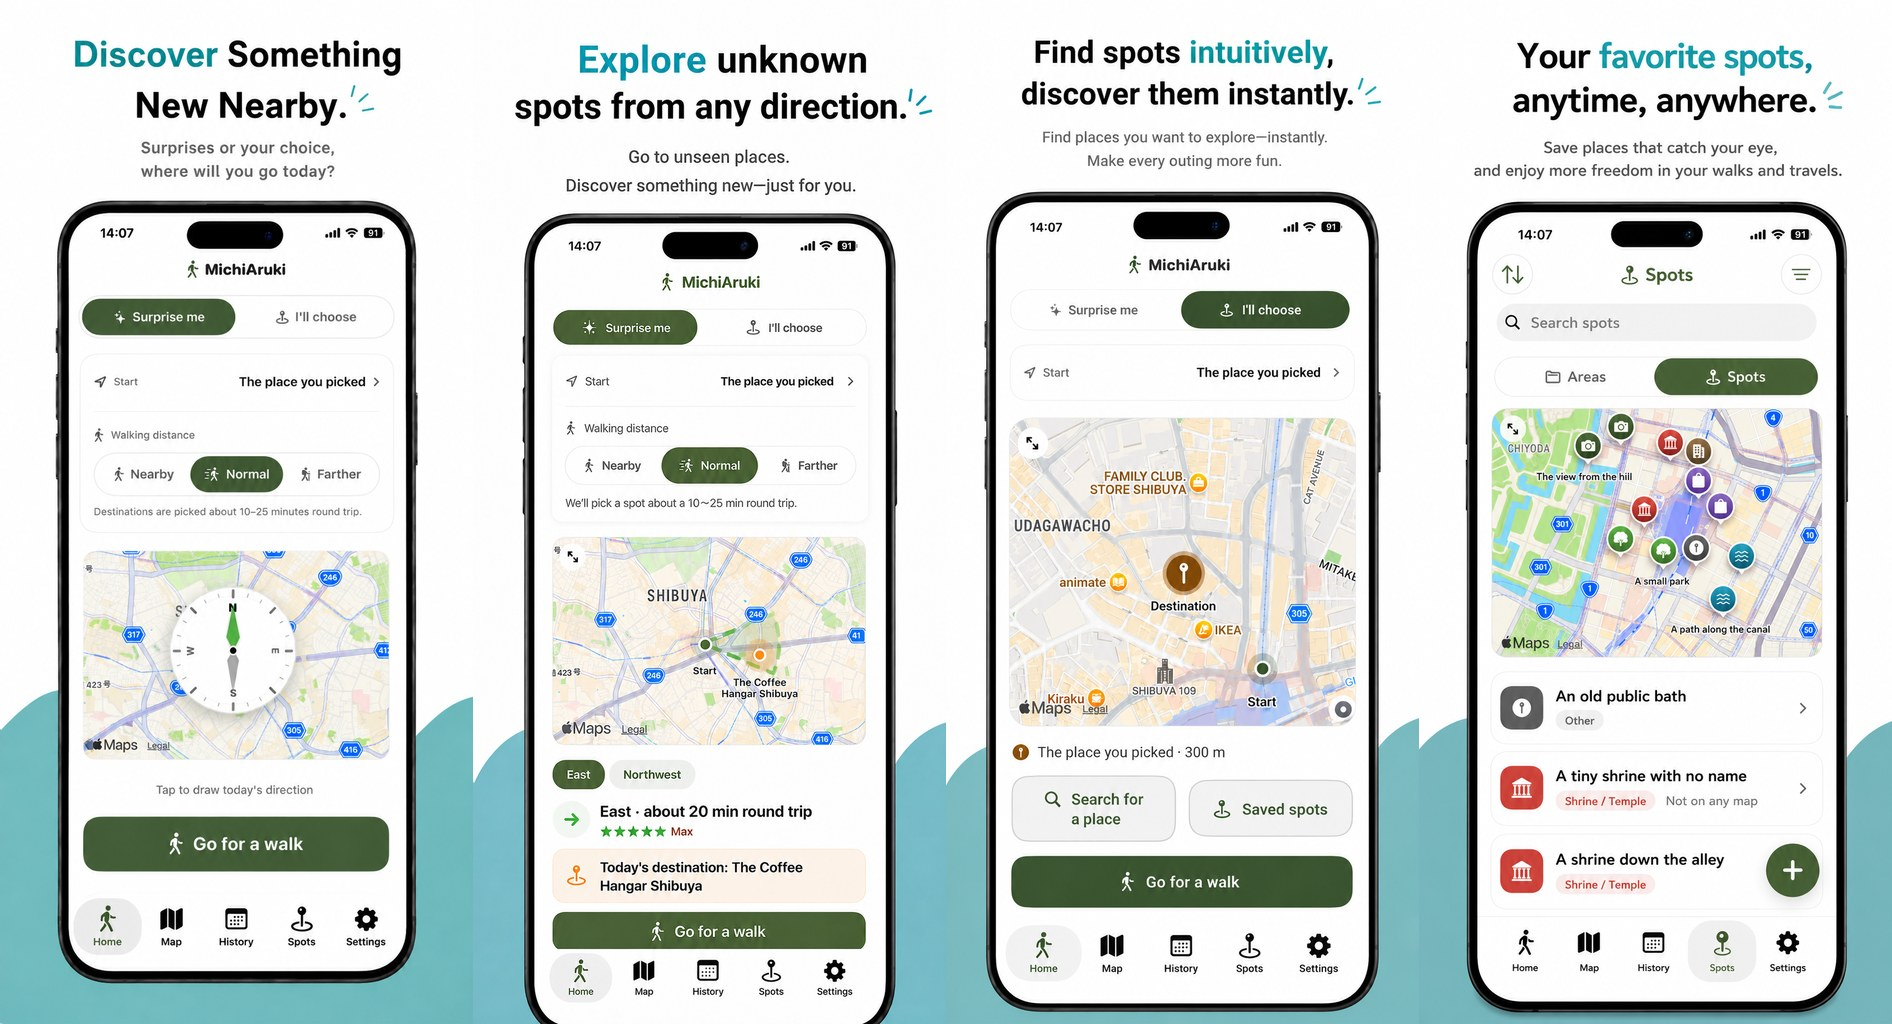
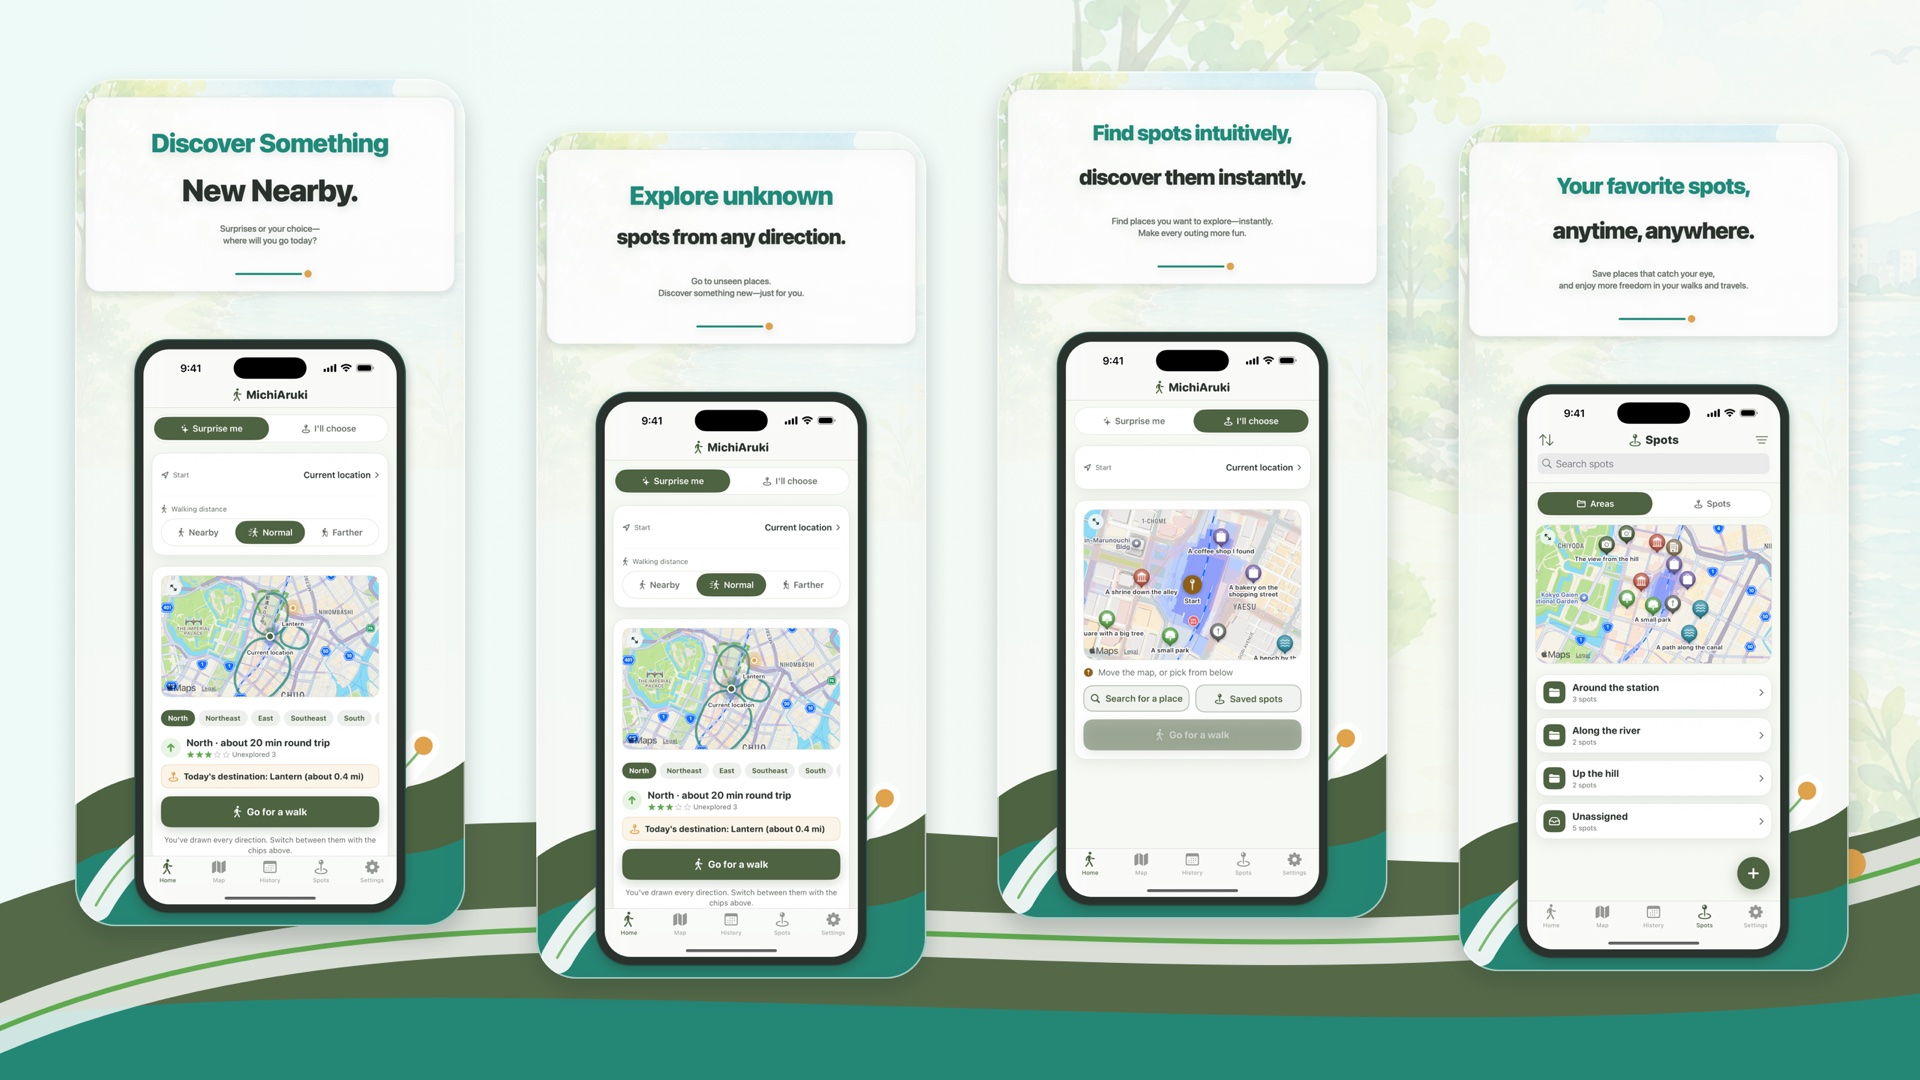
feat(site): 未知あるきのLP画像を新版に差し替える（日英）
release/lp に作り直した4画面の紹介画像へ、日英とも入れ替えた。
元は 2560x1440 の PNG（約3MB）なので、LP 用に 1920x1080 の JPEG
（品質85・約400KB）へ変換している。旧画像と同程度の重さで、画像に
焼き込んだ見出しの可読性は保てる大きさ。

縦横比が 1888x1024 から 16:9 に変わったため、img の width/height も
更新した（未更新だと読み込み中の予約領域がずれて、画像が入った瞬間に
レイアウトが飛ぶ）。

alt は4枚の見出し・サブコピーをそのまま書き写したものだが、新画像でも
文言は同じなので変更していない。

Claude-Session: https://claude.ai/code/session_01QhC8zcWJpLhTieKFoy1SZf

diff --git a/michiaruki/index.html b/michiaruki/index.html
@@ -189,7 +189,7 @@
     <div class="wrap">
       <figure class="shot">
         <div class="shot-scroll">
-          <img class="shot-img" src="./app-image.jpg" width="1888" height="1024" decoding="async" alt="アプリの4画面。1. ホーム「未知あるきで、新しい発見を。— おまかせでも、自分で決めても。きょうはどっちに行こう？」2. 方角を引いたホーム「方角から未知のスポットへ。— さあ、まだ見ぬ未知のスポットへ。自分だけの発見を楽しもう。」3. 行き先を自分で決める画面「直感的にスポット検索、サクッと見つかる — 探したい場所がすぐ見つかる。おでかけがもっと楽しくなる。」4. 保存したスポットの一覧「お気に入りのスポットを、いつでも持ち運べる。— 気になる場所を保存して、自分だけの散歩や旅をもっと自由に。」">
+          <img class="shot-img" src="./app-image.jpg" width="1920" height="1080" decoding="async" alt="アプリの4画面。1. ホーム「未知あるきで、新しい発見を。— おまかせでも、自分で決めても。きょうはどっちに行こう？」2. 方角を引いたホーム「方角から未知のスポットへ。— さあ、まだ見ぬ未知のスポットへ。自分だけの発見を楽しもう。」3. 行き先を自分で決める画面「直感的にスポット検索、サクッと見つかる — 探したい場所がすぐ見つかる。おでかけがもっと楽しくなる。」4. 保存したスポットの一覧「お気に入りのスポットを、いつでも持ち運べる。— 気になる場所を保存して、自分だけの散歩や旅をもっと自由に。」">
         </div>
       </figure>
     </div>

diff --git a/michiaruki/en/index.html b/michiaruki/en/index.html
@@ -185,7 +185,7 @@
     <div class="wrap">
       <figure class="shot">
         <div class="shot-scroll">
-          <img class="shot-img" src="../app-image-en.jpg" width="1892" height="1024" decoding="async" alt="Four app screens. 1. Home: “Discover Something New Nearby. — Surprises or your choice, where will you go today?” 2. Home after drawing a direction: “Explore unknown spots from any direction. — Go to unseen places. Discover something new—just for you.” 3. Choosing your own destination: “Find spots intuitively, discover them instantly. — Find places you want to explore—instantly. Make every outing more fun.” 4. Saved spots: “Your favorite spots, anytime, anywhere. — Save places that catch your eye, and enjoy more freedom in your walks and travels.”">
+          <img class="shot-img" src="../app-image-en.jpg" width="1920" height="1080" decoding="async" alt="Four app screens. 1. Home: “Discover Something New Nearby. — Surprises or your choice, where will you go today?” 2. Home after drawing a direction: “Explore unknown spots from any direction. — Go to unseen places. Discover something new—just for you.” 3. Choosing your own destination: “Find spots intuitively, discover them instantly. — Find places you want to explore—instantly. Make every outing more fun.” 4. Saved spots: “Your favorite spots, anytime, anywhere. — Save places that catch your eye, and enjoy more freedom in your walks and travels.”">
         </div>
       </figure>
     </div>
